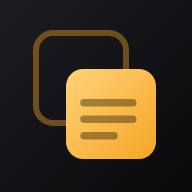
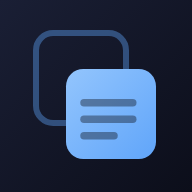
fix(admin): repoint hardcoded /JotRelay admin.css path to work on Netlify
The Netlify <base>-tag fix (#128) missed one spot: admin.js dynamically
creates the admin stylesheet <link> with a hardcoded absolute
'/JotRelay/styles/admin.css' href, bypassing <base> resolution entirely.
On Netlify (root hosting) this 404'd, leaving the admin dashboard
completely unstyled. Now uses the same _basePath() helper already used
elsewhere in admin/shared.js for consistent host-aware path resolution.

Also:
- Regenerate the full icon set (favicons, PWA icons, presskit icons) from
  presskit/icon/icon.svg with Midnight Blue colors instead of the old
  Charcoal Amber default — the static baked assets now match the actual
  default theme. Live in-app theme switching (theme.js's dynamic favicon
  re-tinting) was already correct and unaffected; this fixes what a
  fresh visitor sees before any theme switch.
- Add scripts/generate-social-preview.mjs (new, checked-in for future
  regeneration) and regenerate presskit/social-preview.png to match the
  new Midnight Blue default instead of amber.
- Replace the landing page's coded demo fake share URL
  ('jotrelay.app/product-launch-plan') with the real
  https://jotrelay.netlify.app/ live deployment.

Changed region(s): [[0.1562, 0.1562, 0.8125, 0.8438]]

diff --git a/tests/landing-demo.spec.js b/tests/landing-demo.spec.js
@@ -108,7 +108,7 @@ test.describe('Coded hero demo (/)', () => {
     await goToLanding(page);
     await page.locator('.lp-demo-tab[data-scene="share"]').click();
     await expect(page.locator('#lp-demo-share-view')).toHaveCSS('opacity', '1');
-    await expect(page.locator('.lp-demo-share-url')).toHaveText('jotrelay.app/product-launch-plan');
+    await expect(page.locator('.lp-demo-share-url')).toHaveText('https://jotrelay.netlify.app/');
     await expect(page.locator('.lp-demo-perm[data-perm="edit"]')).toHaveClass(/active/);
     await page.locator('.lp-demo-perm[data-perm="view"]').click();
     await expect(page.locator('.lp-demo-perm[data-perm="view"]')).toHaveClass(/active/);

diff --git a/src/admin.js b/src/admin.js
@@ -22,7 +22,7 @@
 // dashboard-shell.js import cycle.
 
 import { getSupabaseClient } from './supabase.js';
-import { _homePath } from './admin/shared.js';
+import { _homePath, _basePath } from './admin/shared.js';
 import { _renderDashboard } from './admin/dashboard-shell.js';
 import { BRAND_NAME } from './brand.js';
 
@@ -34,7 +34,7 @@ function _loadAdminStylesheet() {
   const link = document.createElement('link');
   link.id = 'admin-stylesheet';
   link.rel = 'stylesheet';
-  link.href = '/JotRelay/styles/admin.css';
+  link.href = `${_basePath()}/styles/admin.css`;
   document.head.appendChild(link);
 }
 

diff --git a/index.html b/index.html
@@ -331,7 +331,7 @@
                 </div>
                 <p class="lp-demo-perm-explain" id="lp-demo-perm-explain">Anyone with this link can edit the room.</p>
                 <div class="lp-demo-share-url-row">
-                  <span class="lp-demo-share-url">jotrelay.app/product-launch-plan</span>
+                  <span class="lp-demo-share-url">https://jotrelay.netlify.app/</span>
                   <button type="button" class="lp-demo-copy-btn" id="lp-demo-copy-btn" tabindex="-1">Copy</button>
                 </div>
               </div>

diff --git a/src/app/landing-demo.js b/src/app/landing-demo.js
@@ -384,7 +384,7 @@ export function initLandingDemo() {
   });
 
   els.copyBtn?.addEventListener('click', async () => {
-    try { await navigator.clipboard?.writeText('jotrelay.app/product-launch-plan'); } catch { /* clipboard permission denied — still show feedback */ }
+    try { await navigator.clipboard?.writeText('https://jotrelay.netlify.app/'); } catch { /* clipboard permission denied — still show feedback */ }
     els.copyBtn.textContent = 'Copied!';
     els.copyBtn.classList.add('copied');
     setTimeout(() => {

diff --git a/src/admin/shared.js b/src/admin/shared.js
@@ -23,7 +23,7 @@ export const SELECT_ALL_PAGE_SIZE      = 1000;
 
 // ── Path helpers ──────────────────────────────────────────────────────────────
 
-function _basePath() {
+export function _basePath() {
   const raw = String(window.SYNCPAD_CONFIG?.basePath ?? '/JotRelay').trim();
   if (!raw || raw === '/') return '';
   return `/${raw.replace(/^\/+|\/+$/g, '')}`;
